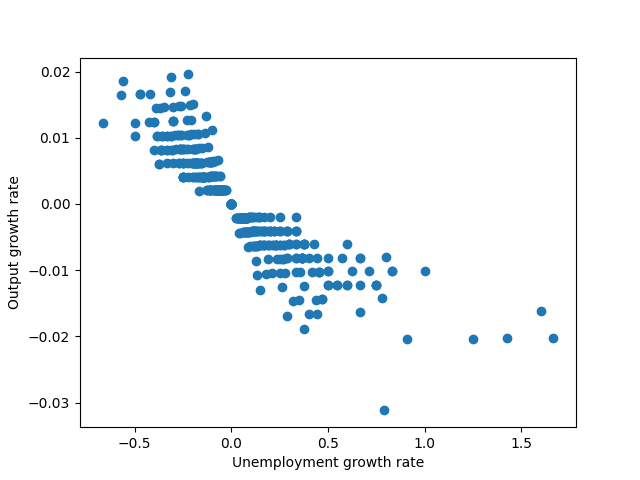
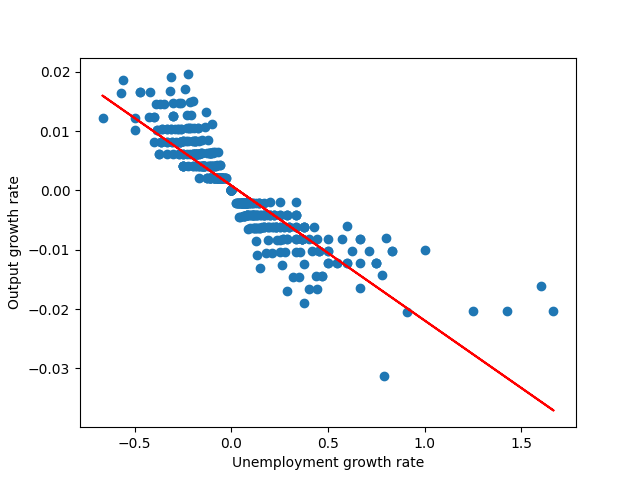
correlations

diff --git a/models/BAM.py b/models/BAM.py
@@ -9,7 +9,9 @@ import matplotlib.pyplot as plt
 import csv 
 import math
 from tqdm import tqdm
+
 from statsmodels.tsa.stattools import adfuller
+from sklearn.linear_model import LinearRegression
 
 
 """
@@ -1121,28 +1123,41 @@ class BAM_mc:
                 plt.ylabel("Productivity-real wage")
                 plt.savefig("plots/cut/product_to_real_wage_mc%s.png" %mc)
 
-
+                # linear regression object for putting regression lines through following scatter plots
+                linear_regressor = LinearRegression() 
+                
                 # Philips curve
+                linear_regressor = LinearRegression() 
+                reg_phillip = linear_regressor.fit(unemp_rate[self.T -499:,mc].reshape(-1,1), wage_inflation[self.T -499:,mc].reshape(-1,1))
+                Y_pred = linear_regressor.predict(unemp_rate[self.T -499:,mc].reshape(-1,1))  # make predictions
                 plt.clf()
                 plt.scatter(unemp_rate[self.T -499:,mc], wage_inflation[self.T -499:,mc])
+                plt.plot(unemp_rate[self.T -499:,mc],Y_pred, color='red')
                 plt.xlabel("Unemployment Rate")
                 plt.ylabel("Wage Inflation")
                 plt.savefig('plots/cut/philips_mc%s.png' %mc)
 
                 # Okuns law
+                linear_regressor = LinearRegression() 
+                reg_okun = linear_regressor.fit(unemp_growth_rate[self.T -499:,mc].reshape(-1,1), output_growth_rate[self.T -499:,mc].reshape(-1,1))
+                Y_pred = linear_regressor.predict(unemp_growth_rate[self.T -499:,mc].reshape(-1,1))  # make predictions
                 plt.clf()
                 plt.scatter(unemp_growth_rate[self.T -499:,mc], output_growth_rate[self.T -499:,mc])
+                plt.plot(unemp_growth_rate[self.T -499:,mc],Y_pred, color='red')
                 plt.xlabel("Unemployment growth rate")
                 plt.ylabel("Output growth rate")
                 plt.savefig('plots/cut/Okun_mc%s.png' %mc)
 
                 # Beveridge
+                linear_regressor = LinearRegression() 
+                reg_beveridge = linear_regressor.fit(unemp_rate[self.T -499:,mc].reshape(-1,1), vac_rate[self.T -499:,mc].reshape(-1,1))
+                Y_pred = linear_regressor.predict(unemp_rate[self.T -499:,mc].reshape(-1,1))  # make predictions
                 plt.clf()
                 plt.scatter(unemp_rate[self.T -499:,mc], vac_rate[self.T -499:,mc])
+                plt.plot(unemp_rate[self.T -499:,mc],Y_pred, color='red')
                 plt.xlabel("Unemployment rate")
                 plt.ylabel("Vacancy rate")
                 plt.savefig('plots/cut/Beveridge_mc%s.png' %mc)
-
 
                 # bankrutpcy
                 plt.clf()
@@ -1160,7 +1175,7 @@ class BAM_mc:
                 plt.savefig("plots/cut/HH_income_mc%s.png" %mc)
                 
                 """
-                DF test
+                DF test & averages
                 """
                 # Augmented Dickey-Fuller unit root test on gdp and inflation
                 fuller_gdp = adfuller(np.log(production[self.T -499:,mc]))
@@ -1173,12 +1188,15 @@ class BAM_mc:
                 print("Average inflation %s" %np.mean(inflation[self.T -499:,mc]))
                 
                 """
-                Correlation and regression
+                Correlation coefficients & betas
                 """
                 
                 print("Corr phill curve %s" %np.corrcoef(unemp_rate[self.T -499:,mc], wage_inflation[self.T -499:,mc]))
+                print("beta phillips %s" %reg_phillip.coef_)
                 print("Corr okun %s" %np.corrcoef(unemp_growth_rate[self.T -499:,mc], output_growth_rate[self.T -499:,mc]))
+                print("beta okun %s" %reg_okun.coef_)
                 print("Corr beveridge %s" %np.corrcoef(unemp_rate[self.T -499:,mc], vac_rate[self.T -499:,mc]))
+                print("beta beveridge %s" %reg_beveridge.coef_)
                 
                 
                 
